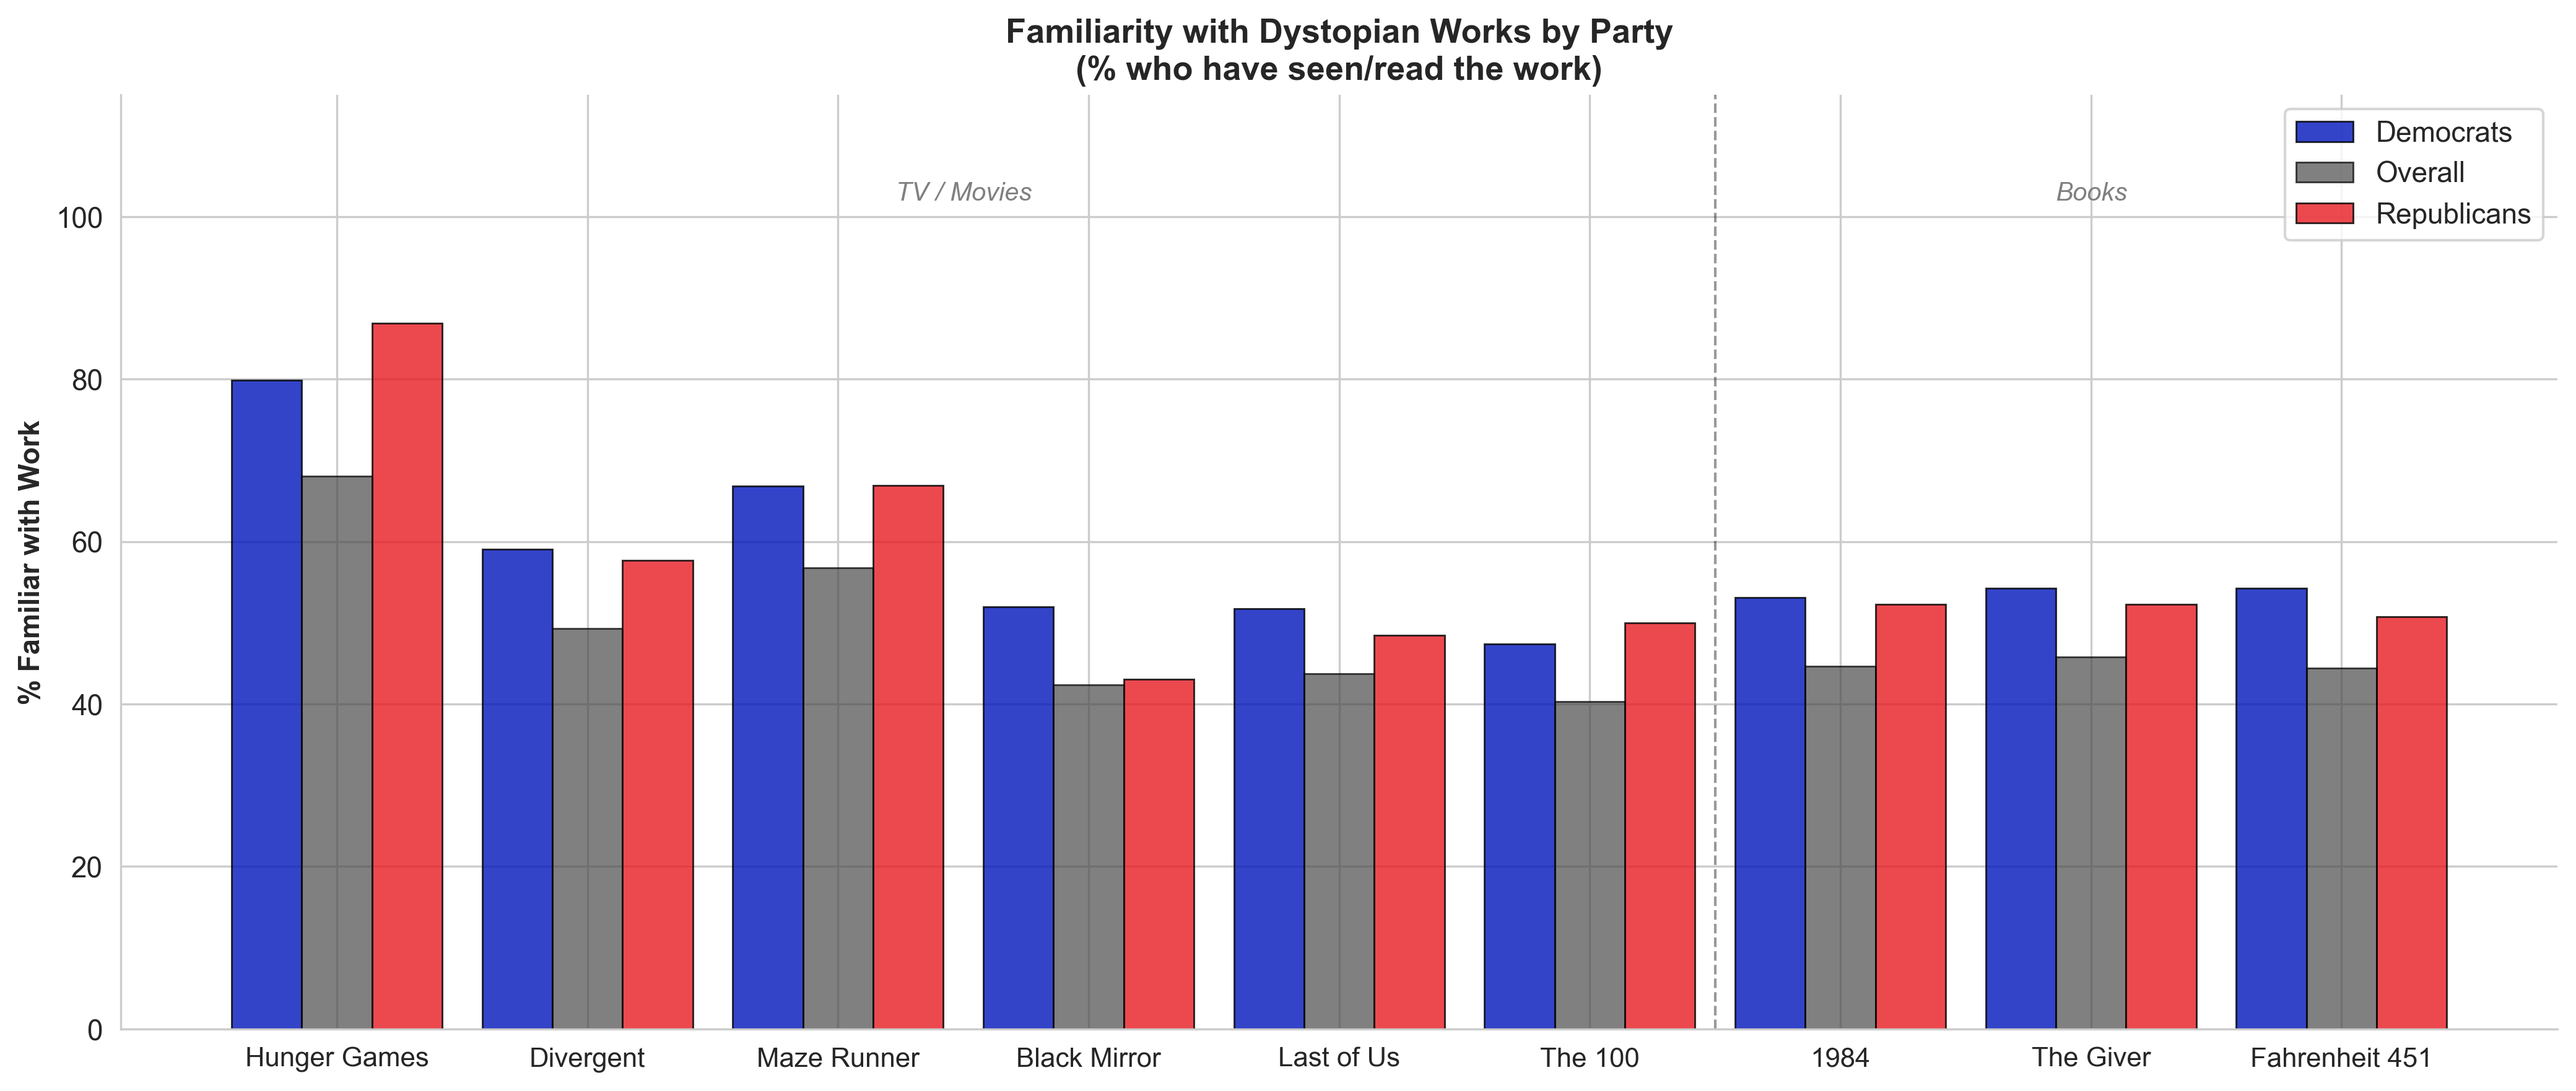
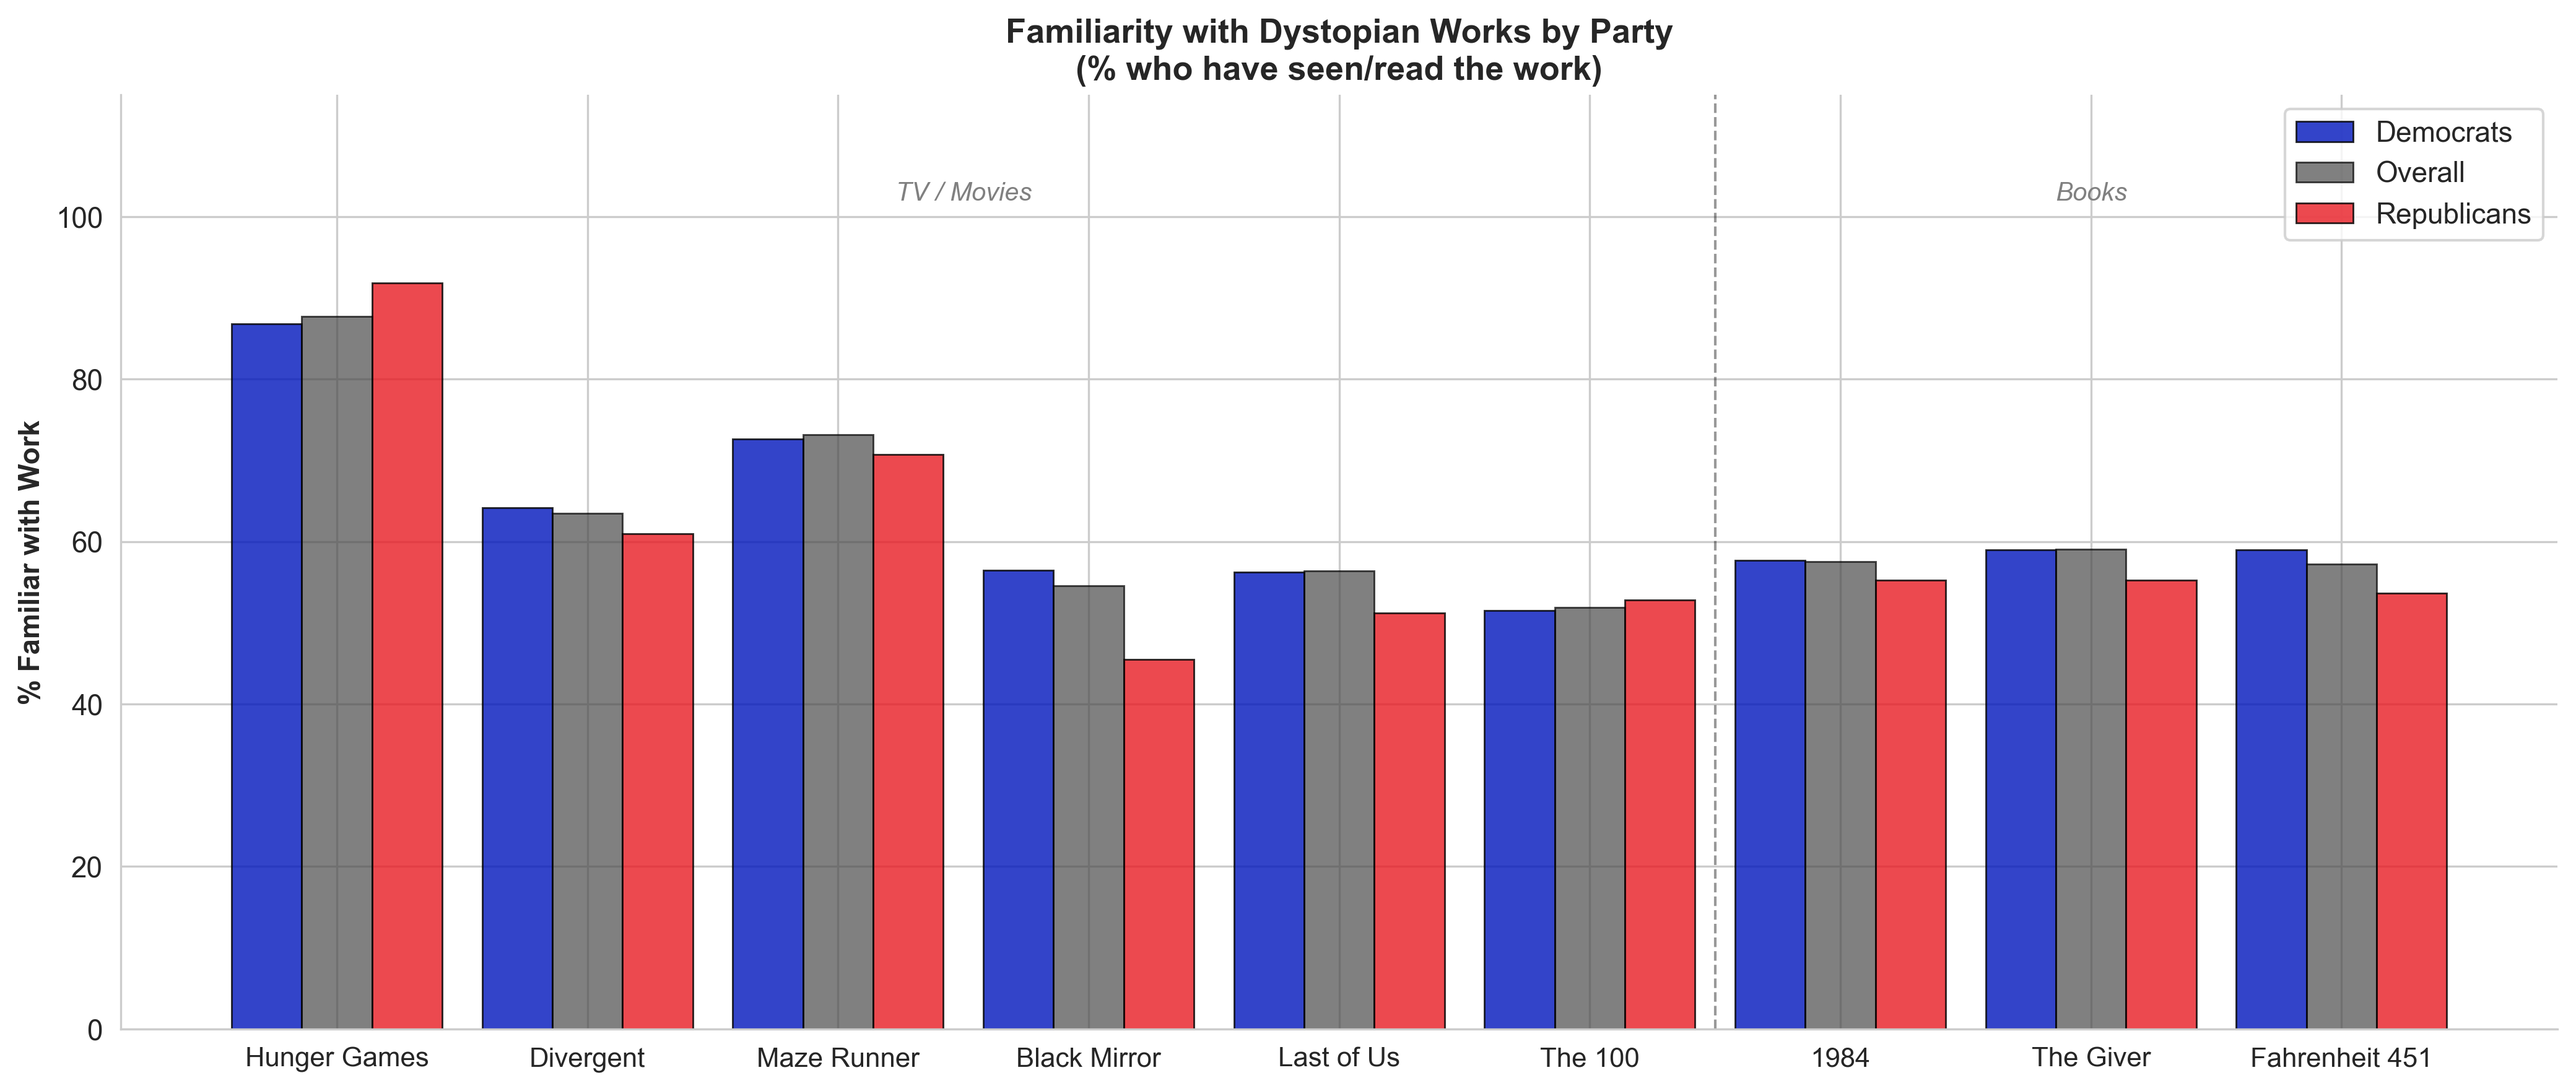
Fix familiarity denominator bug; add verified CSV summaries
Verification: independently recalculated all statistics — all indices,
descriptives, correlations (60 pairs), t-tests, Cohen's d, regression
coefficients, and high/low splits confirmed accurate.

Bug fixed: familiarity % now uses n=603 (respondents shown the
dystopian section) as denominator instead of n=777 (all rows).
Hunger Games corrects from 68.1% → 87.7%; B2 chart regenerated.

Added 6 CSV statistical summary tables to Dystopian_Analyses/:
  summary_descriptives, summary_familiarity, summary_correlations,
  summary_party_ttests, summary_regression, summary_highlow.
Updated .gitignore to allow aggregated summary CSVs (no individual data).

diff --git a/Analysis_Scripts/Dystopian_Summary_And_Charts.py b/Analysis_Scripts/Dystopian_Summary_And_Charts.py
@@ -7,7 +7,7 @@ Outputs (all to Dystopian_Analyses/):
 
   STATISTICAL SUMMARIES (CSV + printed tables)
     summary_descriptives.csv       — Mean, SD, n for all 9 works overall & by party
-    summary_familiarity.csv        — % familiar with each work (overall & by party)
+    summary_familiarity.csv        — % familiar with each work (denominator = those shown section, n=603)
     summary_correlations.csv       — Pearson r, p, n for every dystopian × polarization pair
     summary_party_ttests.csv       — t, p, Cohen's d for Dem vs Rep on every work
     summary_regression.csv         — OLS β, SE, p, 95% CI for both regression models
@@ -89,7 +89,12 @@ dem = df[df['party_cat'] == 'Democrat']
 rep = df[df['party_cat'] == 'Republican']
 ind = df[df['party_cat'] == 'Independent']
 
-TOTAL_N = len(df)   # denominator for familiarity %
+# Denominator for familiarity %: respondents who were shown the dystopian section
+# (those with a non-NaN dystopian_index), not the full 777-row dataset.
+# 174 rows have no dystopian data at all — they were not shown this section.
+TOTAL_N     = int(df['dystopian_index'].notna().sum())          # 603
+DEM_SHOWN_N = int(dem['dystopian_index'].notna().sum())         # 402
+REP_SHOWN_N = int(rep['dystopian_index'].notna().sum())         # 123
 
 
 def save_fig(fig, fname):
@@ -145,8 +150,8 @@ for col, name in WORKS.items():
     fam_rows.append({
         'Work': name,
         'Pct_Familiar_Overall': round(n_familiar_all / TOTAL_N * 100, 1),
-        'Pct_Familiar_Dem':     round(n_familiar_dem / len(dem) * 100, 1) if len(dem) > 0 else np.nan,
-        'Pct_Familiar_Rep':     round(n_familiar_rep / len(rep) * 100, 1) if len(rep) > 0 else np.nan,
+        'Pct_Familiar_Dem':     round(n_familiar_dem / DEM_SHOWN_N * 100, 1) if DEM_SHOWN_N > 0 else np.nan,
+        'Pct_Familiar_Rep':     round(n_familiar_rep / REP_SHOWN_N * 100, 1) if REP_SHOWN_N > 0 else np.nan,
         'n_familiar': n_familiar_all,
     })
 
@@ -318,9 +323,9 @@ save_fig(fig, 'B1_mean_liking_overall.png')
 # ── B2: Familiarity rates by party ────────────────────────────────────────────
 print("\n── B2: FAMILIARITY RATES ──")
 work_order = list(WORKS.values())
-fam_all  = [df[c].notna().sum() / TOTAL_N * 100         for c in WORKS]
-fam_dem  = [dem[c].notna().sum() / len(dem) * 100 if len(dem) > 0 else 0 for c in WORKS]
-fam_rep  = [rep[c].notna().sum() / len(rep) * 100 if len(rep) > 0 else 0 for c in WORKS]
+fam_all  = [df[c].notna().sum()  / TOTAL_N     * 100 for c in WORKS]
+fam_dem  = [dem[c].notna().sum() / DEM_SHOWN_N * 100 if DEM_SHOWN_N > 0 else 0 for c in WORKS]
+fam_rep  = [rep[c].notna().sum() / REP_SHOWN_N * 100 if REP_SHOWN_N > 0 else 0 for c in WORKS]
 
 x = np.arange(len(WORKS)); w = 0.28
 fig, ax = plt.subplots(figsize=(14, 6))
